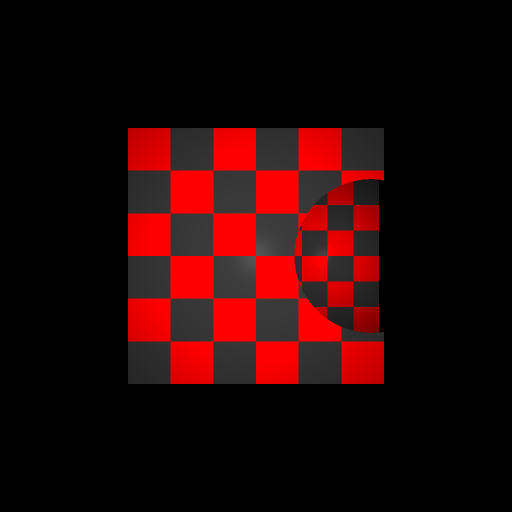
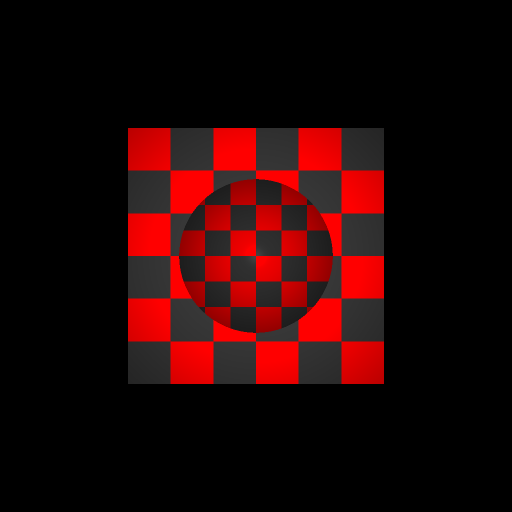
moving lens to center

Changed region(s): [[0.3438, 0.3438, 0.75, 0.6562]]

diff --git a/src/main.cpp b/src/main.cpp
@@ -40,7 +40,7 @@ int main() {
 	Vector3d center;
 	Vector3d normal;
 	Vector3d color;
-	center[0] = 0.9;
+	center[0] = 0;
 	center[1] = 0;
 	center[2] = 2;
 	normal[0] = 0;
